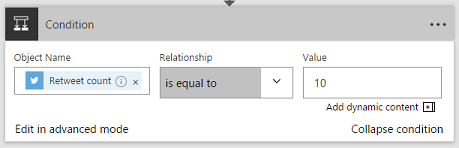
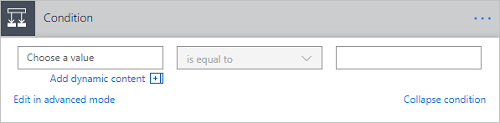
refresh add-condition doc

Changed region(s): [[0.0, 0.0, 1.0, 1.0], [0.915, 0.122, 1.0, 0.1951]]

diff --git a/flow-docs/add-condition.md b/flow-docs/add-condition.md
@@ -1,6 +1,6 @@
 ---
 title: Add a condition to a flow | Microsoft Docs
-description: Specify that a flow performs one or more tasks only if a particular condition is true.
+description: Specify that a flow performs one or more tasks only if a condition is true.
 services: ''
 suite: flow
 documentationcenter: na
@@ -14,35 +14,62 @@ ms.devlang: na
 ms.topic: article
 ms.tgt_pltfrm: na
 ms.workload: na
-ms.date: 10/22/2016
+ms.date: 10/17/2017
 ms.author: stepsic
 
 ---
 # Add a condition to a flow
-Specify that a flow performs one or more tasks only if a particular condition is true. For example, specify that you'll get an email only if a tweet that contains a keyword is retweeted at least 10 times.
 
-**Prerequisites**
+Specify that a flow performs one or more tasks only if a condition is true. For example, specify that you'll get an email only if a tweet that contains a keyword is retweeted at least 10 times.
 
-* [Create a flow](get-started-logic-template.md) from a template - this tutorial will [use this template](https://flow.microsoft.com/galleries/public/templates/e78571e5c70e4806a18eeacba5a897c8/) as the example
+## Prerequisites
+
+* [Create a flow](get-started-logic-template.md) from a template - this tutorial [uses this template](https://flow.microsoft.com/galleries/public/templates/e78571e5c70e4806a18eeacba5a897c8/) as the example
 
 ## Add a condition
-1. In [flow.microsoft.com](https://flow.microsoft.com), select **My Flows** in the top navigation bar.
-2. In the list of flows, select a flow that you have created. This tutorial uses an example with a Twitter trigger and a SharePoint action.
-3. Under the last action, select the **New step** button.
-4. Select **Add a condition**.
-   
+
+1. In [Microsoft Flow](https://flow.microsoft.com), select **My flows** in the top navigation bar.
+
+    You might need to sign in if you're not already signed in.
+
+1. In the list of flows, select one of the flows that you've created.
+
+    This tutorial uses an example with a Twitter trigger and a SharePoint action.
+
+1. Select **Edit flow**.
+
+1. Under the last action, select **New step**.
+
+1. Select **Add a condition**.
+
     ![Condition button](./media/add-condition/add-condition.png)
-5. Select an empty area in **Object name**, and select **Add dynamic content** to open the dynamic content menu.
-6. Select the **Retweet count** parameter to add it to the box.
-7. In the **Relationship** box, select **is greater than or equal to**.
-8. In the **Value** box, type **10**.
-   
+
+1. On the **Condition** card, select an empty area in box on the left.
+
+    The **Dynamic content** list opens.
+
+1. Select the **Retweet count** parameter to add it to the box.
+
+1. In the box in the middle of the **Condition** card, select **is greater than or equal to**.
+
+1. In the box on the right, enter **10**.
+
     ![The OBJECT NAME box with a parameter in it](./media/add-condition/specify-condition.png)
-9. Click on the header of action you want inside of condition (such as **Create item**) and drag it underneath the text that reads **IF YES**. When you release the cursor, the action should move into that box.
-   
+
+1. Select the header of the action you want to use inside the condition (such as **Create item**) and drag it underneath the text that reads **If yes**.
+
+    When you release the cursor, the action moves into that box.
+
     ![Drag action](./media/add-condition/drag-action.png)
-10. Save the flow.
+
+1. Configure the action as necessary.
+
+1. Save the flow.
 
 ## Edit in advanced mode
-You can also select the **Edit in advanced mode** link to write more advanced conditions. You can use any expression from the *Workflow definition language* here. [Learn more about](https://msdn.microsoft.com/library/azure/mt643789.aspx) what functions are available.
 
+You can also select **Edit in advanced mode** to write more advanced conditions. You can use any expression from the *Workflow definition language* in advanced mode. Learn about all available [expressions](https://msdn.microsoft.com/library/azure/mt643789.aspx).
+
+## Next steps
+
+Learn how to [use expressions](use-expressions-in-conditions.md) in conditions in advanced mode.
